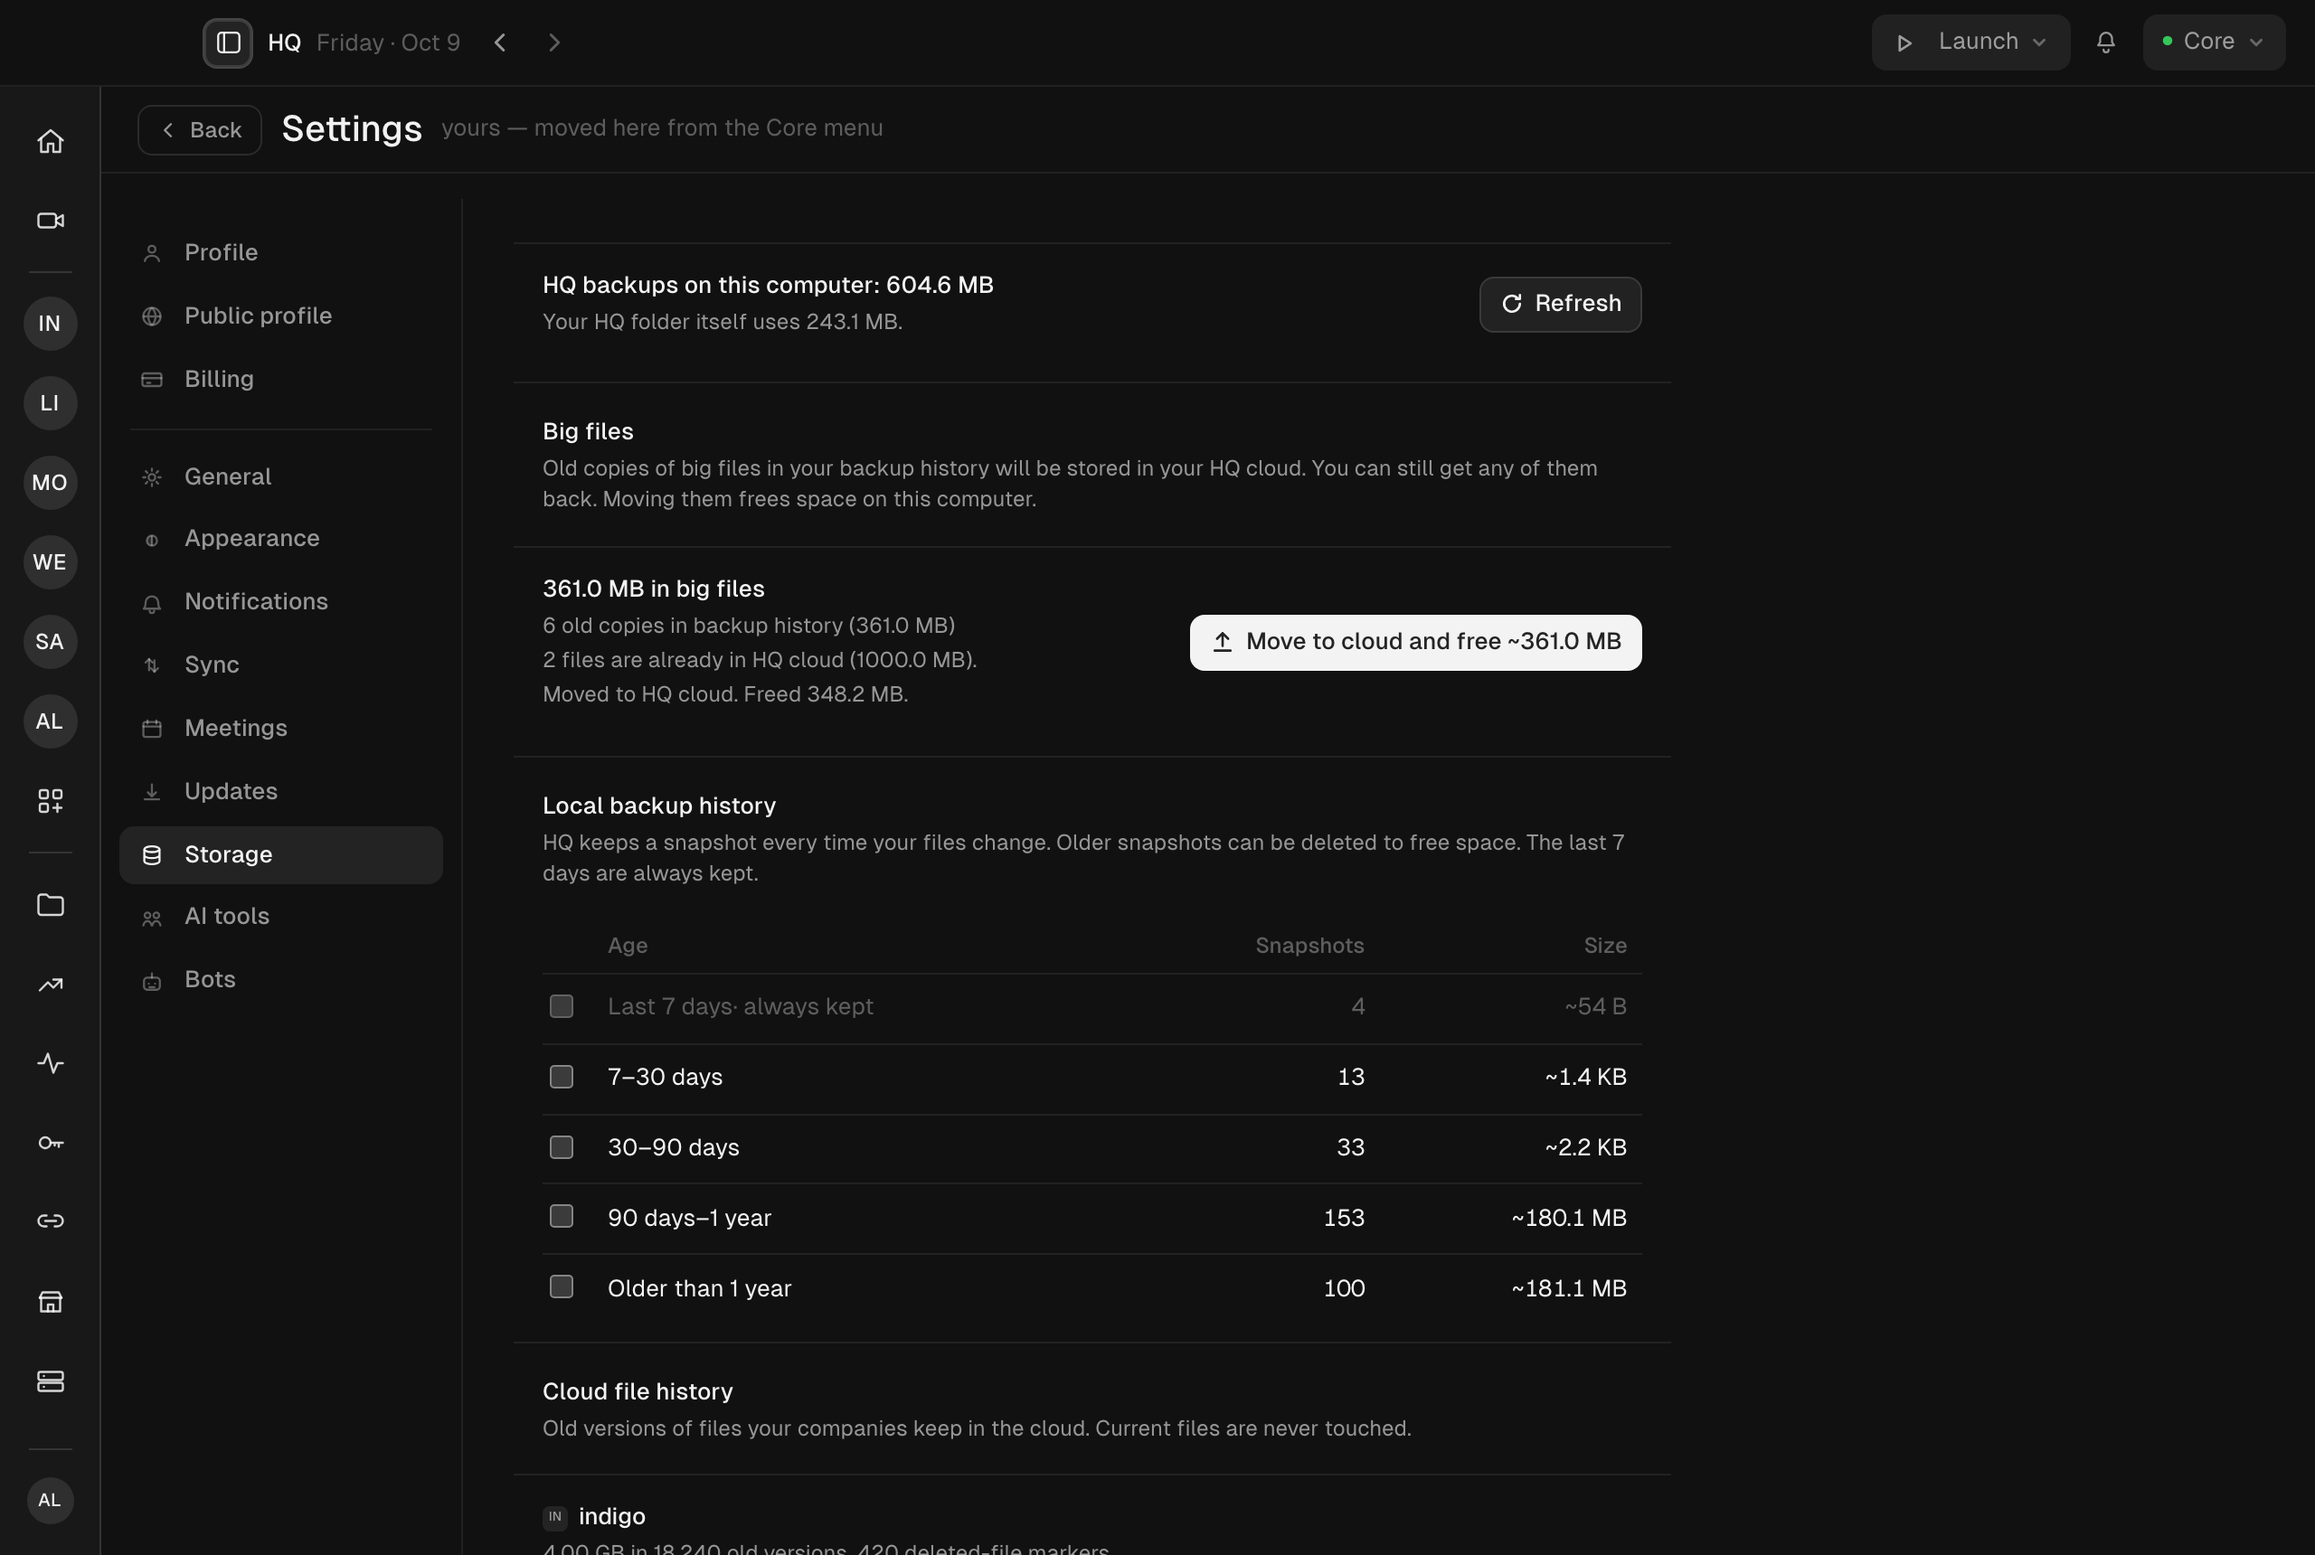
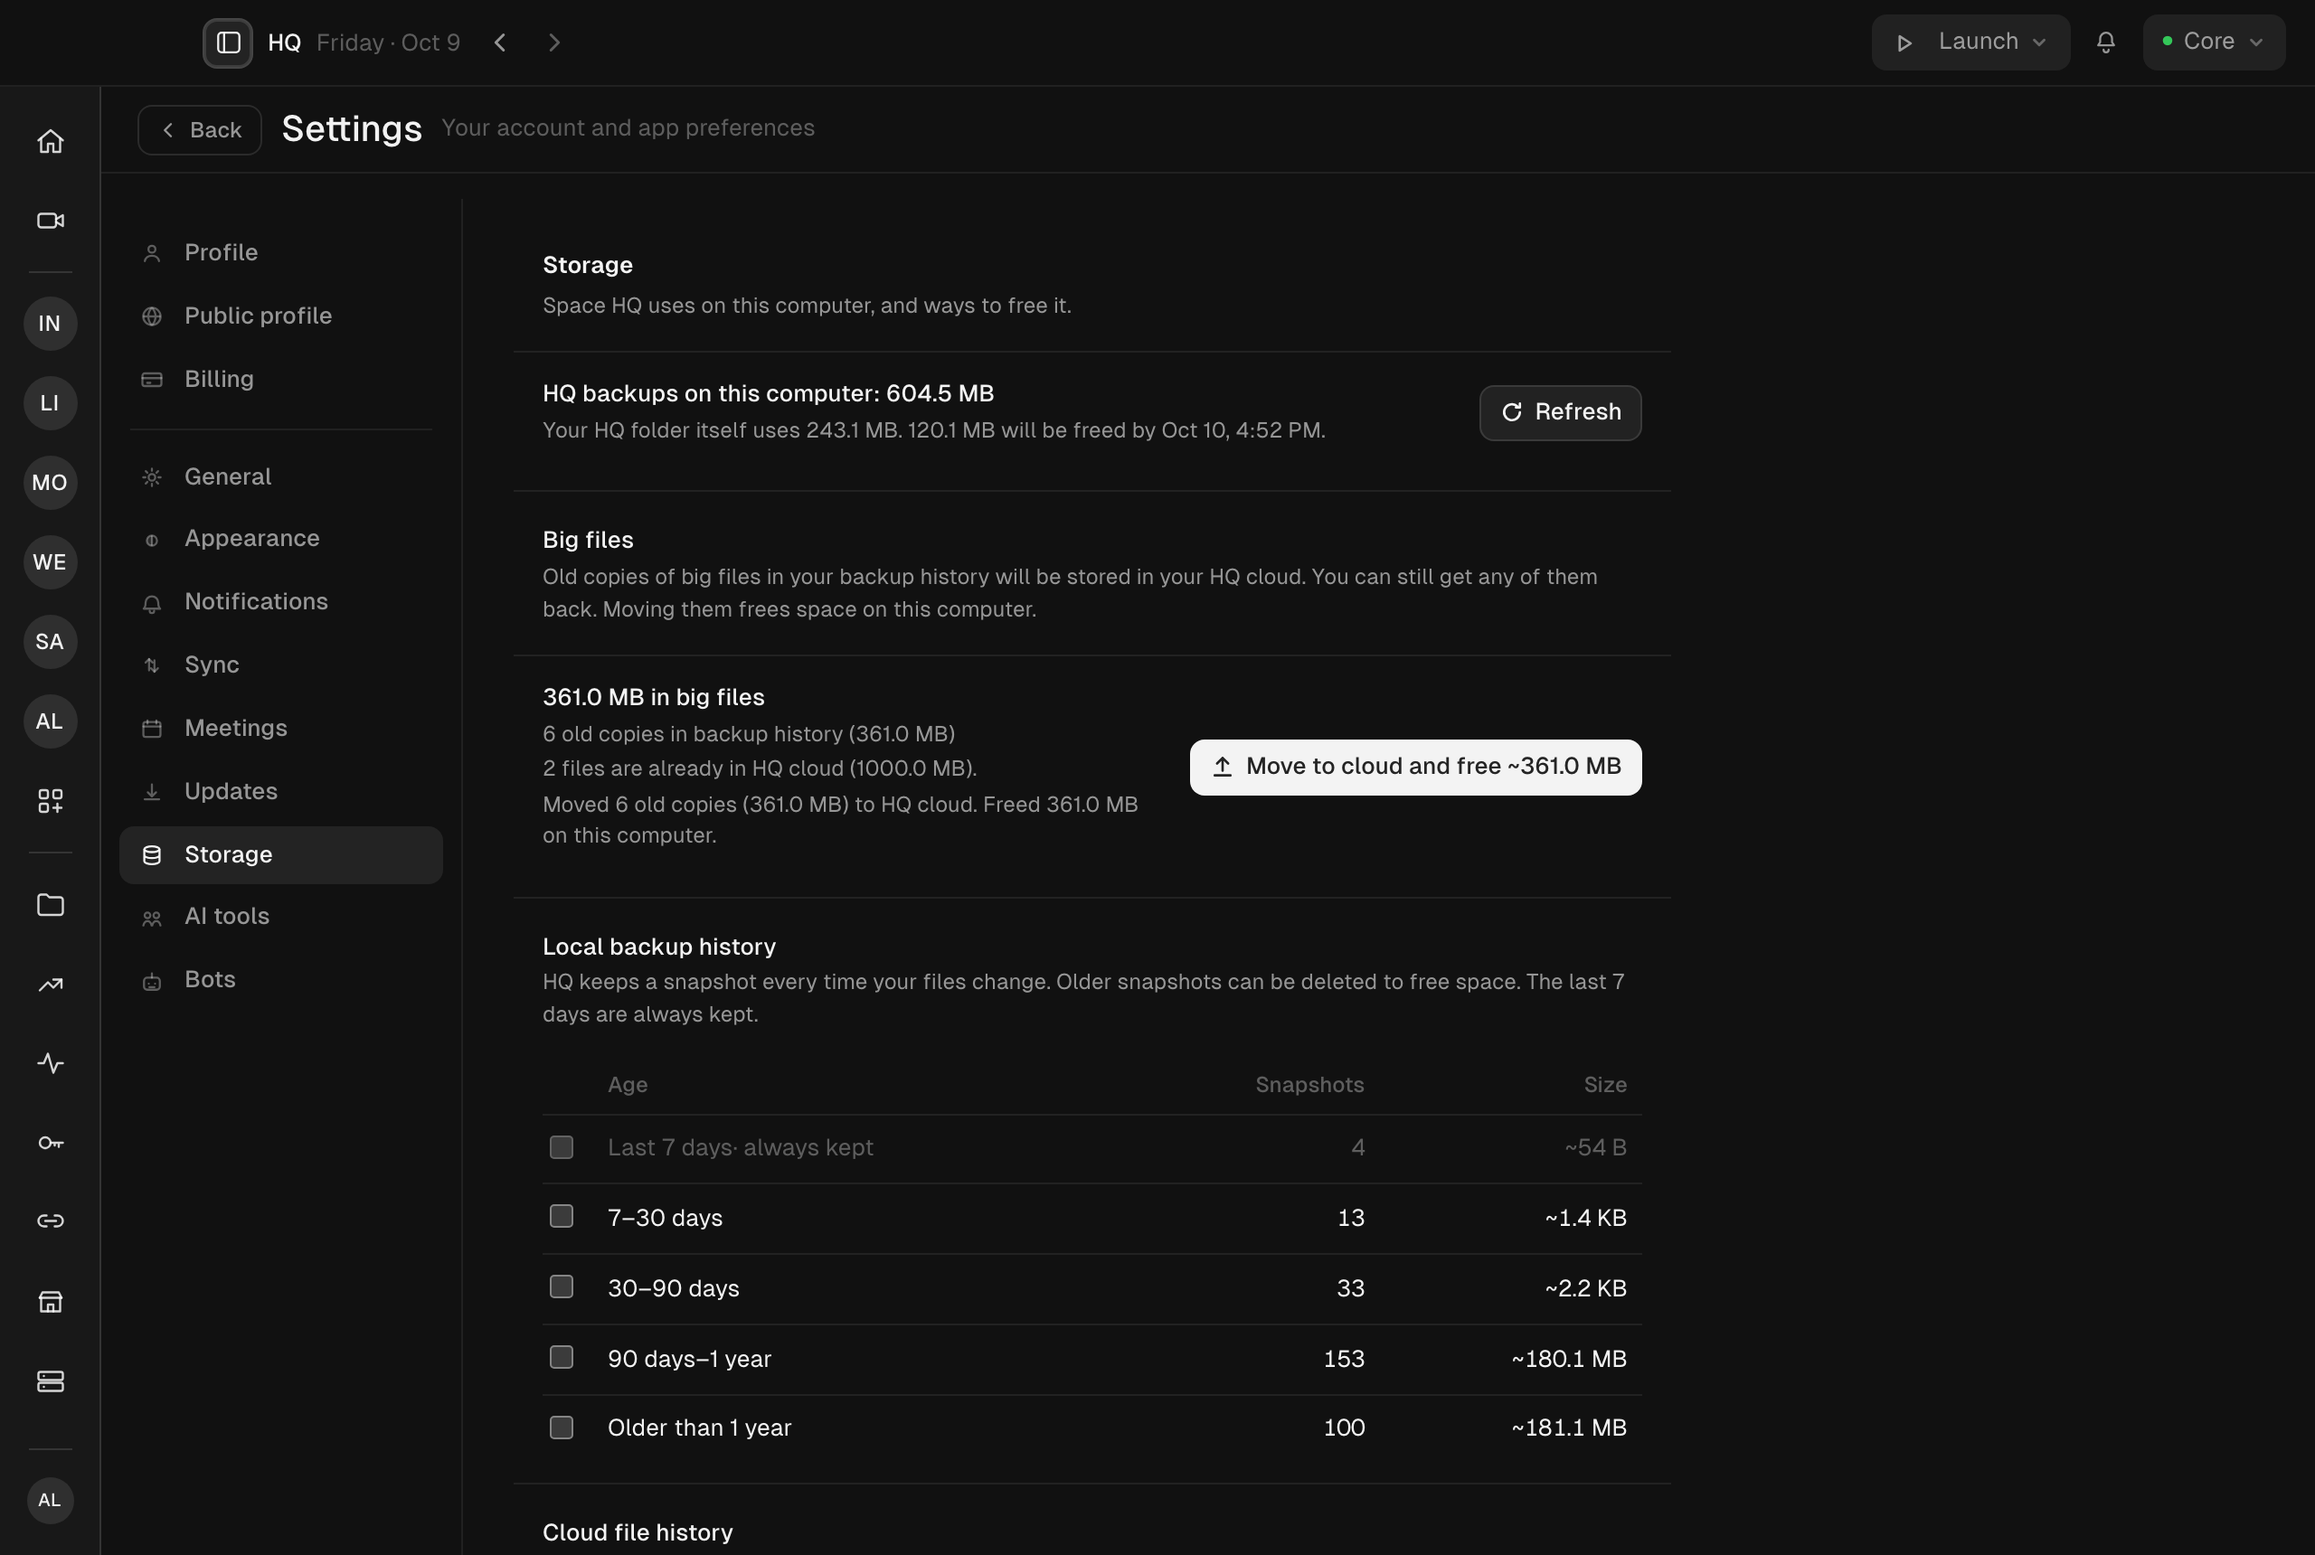
Settings › Storage: explain held history, harness serves round-3 shapes, refresh screenshots

diff --git a/apps/sync/dev-harness/storage-mocks.ts b/apps/sync/dev-harness/storage-mocks.ts
@@ -6,10 +6,20 @@
 //   ?storage=data         (default) 6 old copies to move, cloud history
 //   ?storage=unavailable  big-file moves can't run ("update HQ sync")
 //   ?storage=partial      the move uploads but frees nothing (real CLI result)
+//   ?storage=holders      branches and saved versions hold old history, so
+//                         deleting old backups would free nothing
+//
+// Status, a successful move and a successful delete use the round-3 contract
+// fixtures (24 h undo backup, pending reclaim); see the fixtures README.
 import { NOT_HANDLED } from './company-flow-mocks';
-import status from '../../../packages/ui/src/settings/__fixtures__/storage/status.json';
+import status from '../../../packages/ui/src/settings/__fixtures__/storage/status-r3.json';
+import statusR1 from '../../../packages/ui/src/settings/__fixtures__/storage/status.json';
 import offloadDry from '../../../packages/ui/src/settings/__fixtures__/storage/offload-dry.json';
 import offloadReal from '../../../packages/ui/src/settings/__fixtures__/storage/offload-real.json';
+import offloadRealR3 from '../../../packages/ui/src/settings/__fixtures__/storage/offload-real-r3.json';
+import pruneDryR3 from '../../../packages/ui/src/settings/__fixtures__/storage/prune-dry-r3.json';
+import pruneDryHolders from '../../../packages/ui/src/settings/__fixtures__/storage/prune-dry-holders.json';
+import pruneRealR3 from '../../../packages/ui/src/settings/__fixtures__/storage/prune-real-r3.json';
 
 const CURRENT_BLOCKED = {
   available: false,
@@ -26,7 +36,17 @@ function statusFor(variant: string): unknown {
       : { ...status.offload, placeholders: { count: 2, bytes: 1_048_576_000 } };
   return {
     ...status,
-    local: { ...status.local, root: '/Users/corey/Documents/HQ' },
+    local: {
+      ...status.local,
+      root: '/Users/corey/Documents/HQ',
+      // Holders zero every band (real round-2 capture); otherwise use the
+      // round-1 bands, which have deletable history.
+      ...(variant === 'holders'
+        ? {}
+        : { tranches: statusR1.local.tranches, holding_refs: [], holding_refs_count: 0 }),
+      // A fresh undo window, so the pending line reads as a future time.
+      reclaim_after: new Date(Date.now() + DAY).toISOString(),
+    },
     offload,
     cloud: [
       {
@@ -63,15 +83,11 @@ export function storageAnswer(cmd: string): unknown {
       return { ...offloadDry, current: { ...offloadDry.current, ...CURRENT_BLOCKED } };
     case 'run_storage_offload':
       if (variant() === 'partial') return { ...offloadReal, current: { ...offloadReal.current, ...CURRENT_BLOCKED } };
-      return {
-        ...offloadReal,
-        history: { ...offloadReal.history, freed_bytes: 365_105_152 },
-        current: { ...offloadReal.current, ...CURRENT_BLOCKED },
-        errors: [],
-      };
+      return { ...offloadRealR3, current: { ...offloadRealR3.current, ...CURRENT_BLOCKED } };
     case 'preview_storage_prune':
+      return variant() === 'holders' ? pruneDryHolders : pruneDryR3;
     case 'run_storage_prune':
-      return { local: null, cloud: [], dry_run: cmd === 'preview_storage_prune' };
+      return pruneRealR3;
     case 'cloud_file_ui_ready':
       return [];
     default:

diff --git a/packages/ui/src/settings/StorageSettingsPane.svelte b/packages/ui/src/settings/StorageSettingsPane.svelte
@@ -329,6 +329,14 @@
       : "",
   );
 
+  /** Status says branches or saved versions hold all old history. */
+  const statusHolders = $derived.by(() => {
+    const local = status?.local;
+    const count = local?.holding_refs_count ?? local?.holding_refs?.length ?? 0;
+    const deletable = localBands.slice(1).some((b) => b.bytes > 0);
+    return local?.available && count > 0 && !deletable ? { count, refs: local.holding_refs ?? [] } : null;
+  });
+
   const pendingReclaim = $derived.by(() => {
     const local = status?.local;
     const bytes = local?.pending_reclaim_bytes ?? 0;
@@ -484,6 +492,21 @@
           {/each}
         </tbody>
       </table>
+      {#if statusHolders}
+        <div class="set-row" data-testid="settings-storage-local-held">
+          <div>
+            <div class="sd">{holdersCopy(statusHolders.count)}</div>
+            {#if statusHolders.refs.length > 0}
+              <details class="holders">
+                <summary>What's still using it</summary>
+                <ul>
+                  {#each statusHolders.refs as ref (ref.name)}<li>{holderLabel(ref)}</li>{/each}
+                </ul>
+              </details>
+            {/if}
+          </div>
+        </div>
+      {/if}
     {/if}
 
     <div class="set-subhead"><div class="sn">Cloud file history</div>

diff --git a/packages/ui/src/settings/StorageRound3.test.ts b/packages/ui/src/settings/StorageRound3.test.ts
@@ -189,6 +189,21 @@ describe("StorageSettingsPane round 3", () => {
     expect(q("settings-storage-pending-reclaim")).toBeNull();
   });
 
+  it("explains ~0 B bands when refs hold all old history (real status)", async () => {
+    await render({ status: async () => ({ ok: true, value: STATUS_HOLDERS }) });
+    const held = q("settings-storage-local-held");
+    expect(held?.textContent).toContain(
+      "Nothing can be freed yet. 6 older branches or saved versions still use this history.",
+    );
+    expect(held?.textContent).toContain("Changes set aside for later");
+    expect(held?.textContent).not.toMatch(/delete/i);
+  });
+
+  it("no held note when some old history can be freed", async () => {
+    await render({ status: async () => ({ ok: true, value: statusWithBand(STATUS_HOLDERS) }) });
+    expect(q("settings-storage-local-held")).toBeNull();
+  });
+
   it("blocks confirm when the dry run is held by refs and lists them", async () => {
     const prune = vi.fn();
     await render({
